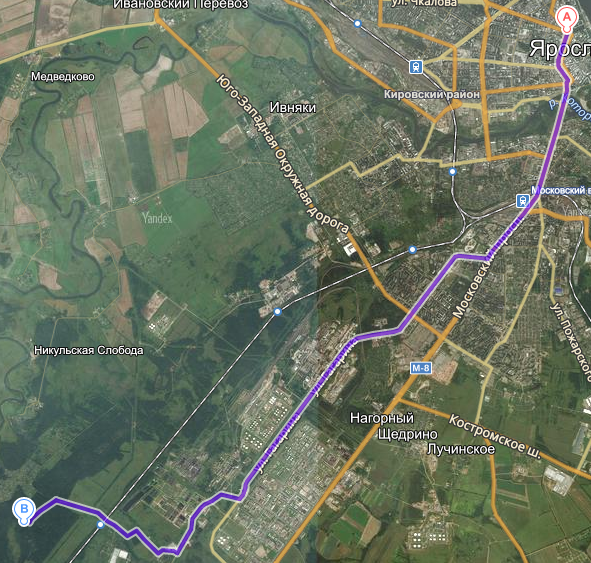
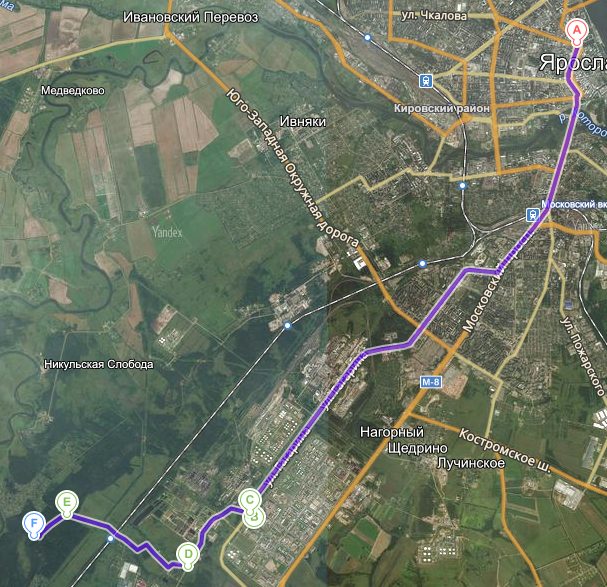
Обновление маршрута

diff --git a/route/route.tex b/route/route.tex
@@ -47,45 +47,49 @@ citecolor = black
 \begin{document}
 \section*{Маршрут до места проведения посвята}
 \subsection*{Общий вид}
-\par Маршрут проложет от Красной площади до места проведения посвята. Сам маршрут Вы можете видеть на рисунке~\ref{ris:generalRoute}. Протяженность маршрута около 20 км, время без пробок 39 минут. Дорога за городом столь убога, что 40 минут светит только внедорожнику. Рассчитывайте время с запасом.
+\par Маршрут проложен от Красной площади до места проведения посвята. Сам маршрут Вы можете видеть на рисунке~\ref{ris:generalRoute}. Протяженность маршрута около 20 км, время без пробок 39 минут. Дорога за городом столь убога, что 40 минут светит только внедорожнику. Рассчитывайте время с запасом.
 
-\par Если кто-то хочет самостоятельно построить себе маршрут, то вот примерные координаты для Яндекса 57.541585, 39.700436. В приципе эти же коордитнаты работает на картах от Google. Более того и Google есть StreetView практически на весь маршрут движения.
-\begin{figure}[h]
-	\center{\includegraphics[width=1.0\linewidth]{YandexMap}}
+\par Если кто-то хочет самостоятельно построить себе маршрут, то вот примерные координаты для Яндекса 57.541585, 39.700436. В принципе эти же координаты работают на картах от Google. Более того у Google есть StreetView практически на весь маршрут движения. Очень рекомендую им воспользоваться.
+\begin{figure}[h!]
+	\center{\includegraphics[width=0.9\linewidth]{YandexMap}}
 	\caption{Общий вид маршрута}
 	\label{ris:generalRoute}
 \end{figure}
 
 \newpage
 \subsection*{Детализация проезда}
-\par Первое, что Вам необходимо сделать, что бы добраться до посвята своим ходом --- добраться до улицы Гагарина. По этой улице нужно ехать до проходных НПЗ. НИКУДА НЕ СВОРАЧИВАТЬ! Даже если Вы и Ваша спутница в один голос орете, что узнаете место и нужно ехать направо. НЕТ! До проходных НПЗ. Там есть остановки автобусов и круговое движение (см. рисунок~\ref{ris:NPZ}).
-
-\begin{figure}[h]
-	\center{\includegraphics[width=1.0\linewidth]{NPZ}}
+\par Первый ориентир на пути к посвяту --- улица Гагарина. По ней нужно ехать реально очень долго, фактически до её конца. Необходимо добраться до проходных НПЗ, точка B на карте (см. рис~\ref{ris:generalRoute}). Для это нужно просто ехать прямо. Не сворачивать никуда. Даже если Вам и Вашей спутнице кажется, что настало время повернуть. Даже если вы в один голос орете, что узнаете место и вам туда. Нет, вам до проходных(см. рис~\ref{ris:NPZ}).
+\begin{figure}[h!]
+	\center{\includegraphics[width=0.9\linewidth]{NPZ}}
+	\center{\includegraphics[width=0.65\linewidth]{npzMap}}
 	\caption{Проходные НПЗ}
 	\label{ris:NPZ}
 \end{figure}
 
-\par Затем нужно продолжить движение по улице Гагарина и повернуть направо, на самом деле правильнее сказать <<продолжить движение по улице Гагарина>>, так как она по факту поворачивает направо (см. рисунок~\ref{ris:afterNPZ}).
-
-\begin{figure}[h]
-	\center{\includegraphics[width=1.0\linewidth]{afterNPZ}}
-	\caption{Поворот после проходных}
+\par Затем нужно проехать немного прямо (под трубами, которые видно на рисунке~\ref{ris:NPZ}) и повернуть направо, точка C на карте. Фактически продолжая движение по улице Гагарина, там даже указатель на фото есть, вроде был он и в жизни (см. рис~\ref{ris:afterNPZ}).
+\begin{figure}[h!]
+	\center{\includegraphics[width=0.9\linewidth]{afterNPZ}}
+	\center{\includegraphics[width=0.65\linewidth]{afterNPZMap}}
+	\caption{Поворот направо после проходных}
 	\label{ris:afterNPZ}
 \end{figure}
 
-\par Теперь начинается самое веселое. Нужно ехать по этому подобию дороги и никуда не сворачивать. Я понимаю, что это звучит глупо, но Вы все еще едете по улице Гагарина. Необходимо добраться до забора (см. рисунок~\ref{ris:zabor}) и повернуть направо. Ехать вдоль него. Дорога там одна. Доезжаете до жд переезда и можете считать, что удачно добрались. Не проспите последний поворот налево (см. рисунок~\ref{ris:last}).
-
-\begin{figure}[h]
-	\center{\includegraphics[width=1.0\linewidth]{zabor}}
+\par Теперь необходимо просто ехать по этой <<дороге>> некоторое время. Очень важно не повернуть слишком рано, но рецепта как удержать себя на этой дороге у меня нет. Нужно доехать до забора (см. рис~\ref{ris:zabor}), точка D. Будет одно очень спорное место: поворот направо и небольшой пригорок --- Вам на пригорок. Осознанно не указываю это место на карте, чтобы не сбивать с верного пути лишними отметками. При удачном раскладе у этого самого забора необходимо повернуть направо и продолжать движение. Дорога там одна, как минимум я так помню.
+\begin{figure}[h!]
+	\center{\includegraphics[width=0.9\linewidth]{zabor}}
+	\center{\includegraphics[width=0.65\linewidth]{zaborMap}}
 	\caption{Забор}
 	\label{ris:zabor}
 \end{figure}
 
-\begin{figure}[h]
-	\center{\includegraphics[width=1.0\linewidth]{last}}
-	\caption{Посвят близок}
+\par Через некоторое время Вы доедете до переезда через железную дорогу, там еще и станция недалеко (если есть герои, которые отважатся ехать на посвят на электричке; прецеденты были). Обращу внимание что Яндекс и Google несколько расходятся в названиях станции, но географически место одно и то же. Если верить картам, то после переезда нет поворотов налево, кроме нужного. Как он выглядит можно увидеть на рисунке~\ref{ris:last}, точка E.
+\begin{figure}[h!]
+	\center{\includegraphics[width=0.9\linewidth]{last}}
+	\center{\includegraphics[width=0.5\linewidth]{lastMap}}
+	\caption{Последняя развилка}
 	\label{ris:last}
 \end{figure}
+
+\par После поворота налево нужно двигаться по единственной дороге. Аккуратнее на ней. Дорога узкая и только кажется хорошей. Не надо гнать в самом конце. Проехать нужно около 700 метров. Постарайтесь не пролететь лагерь оргов. Удачи!
 
 \end{document}
